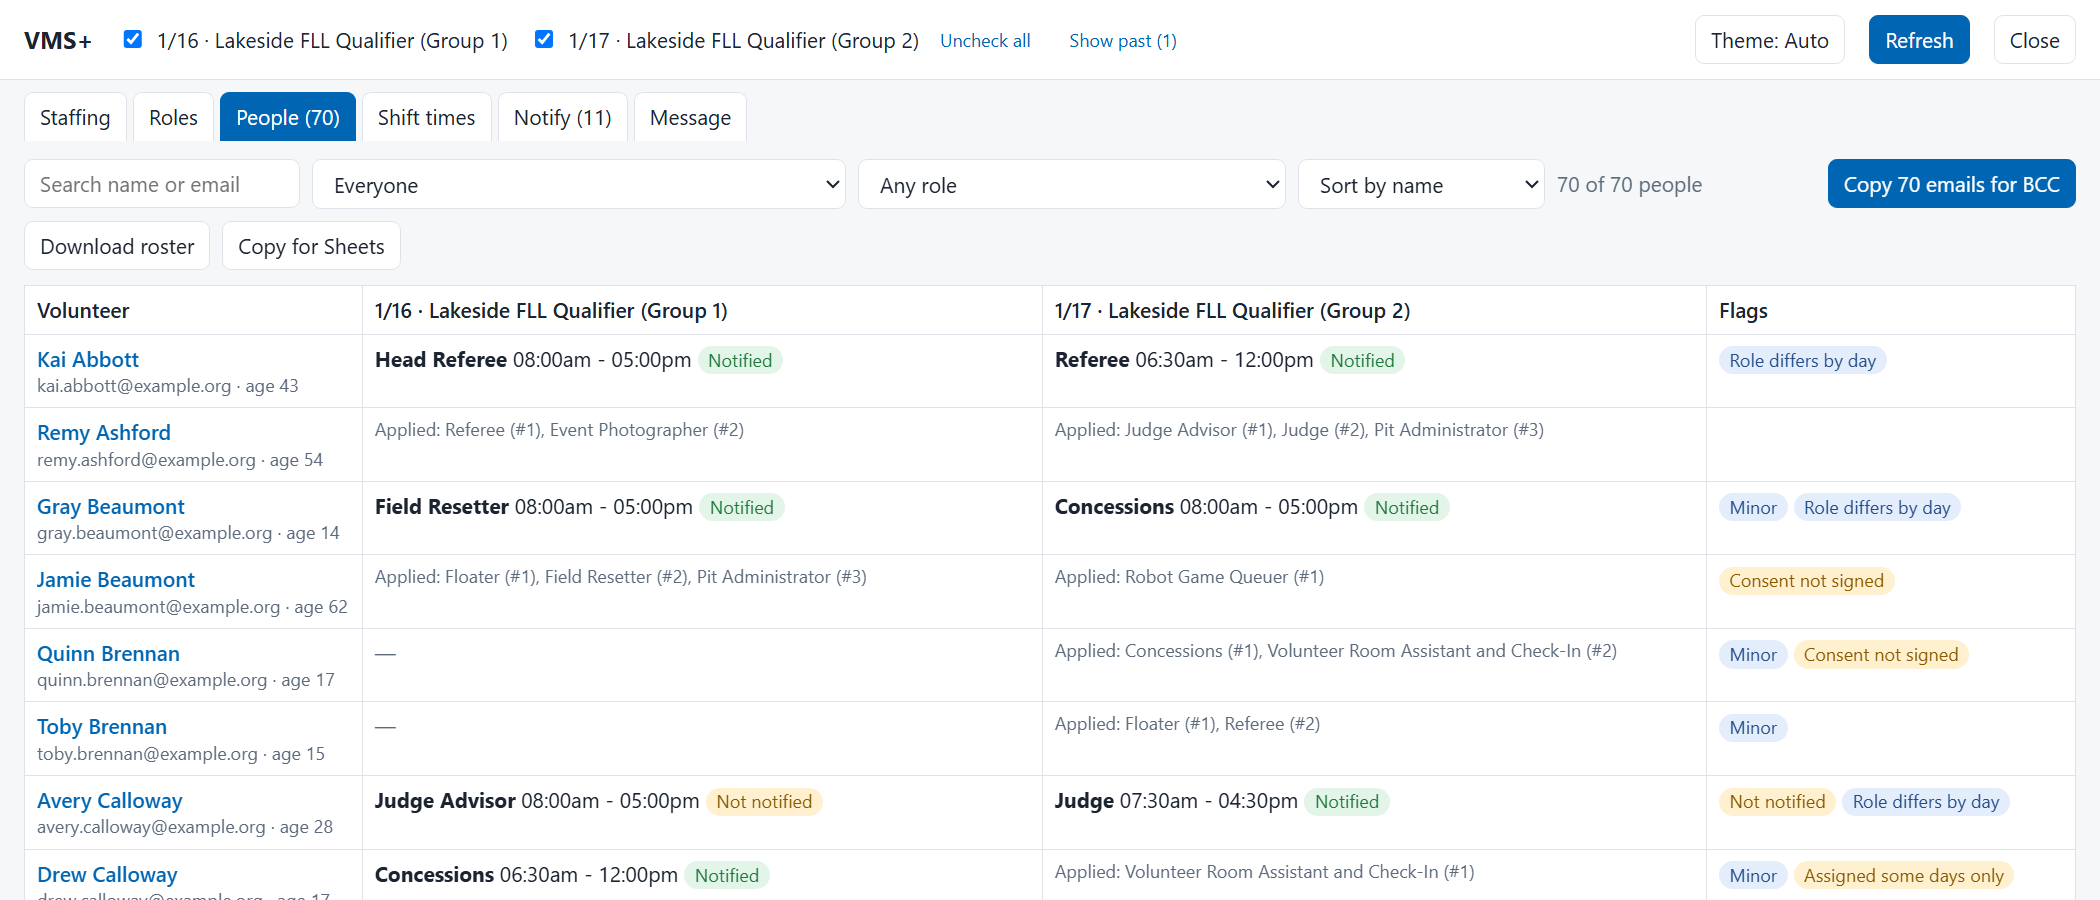
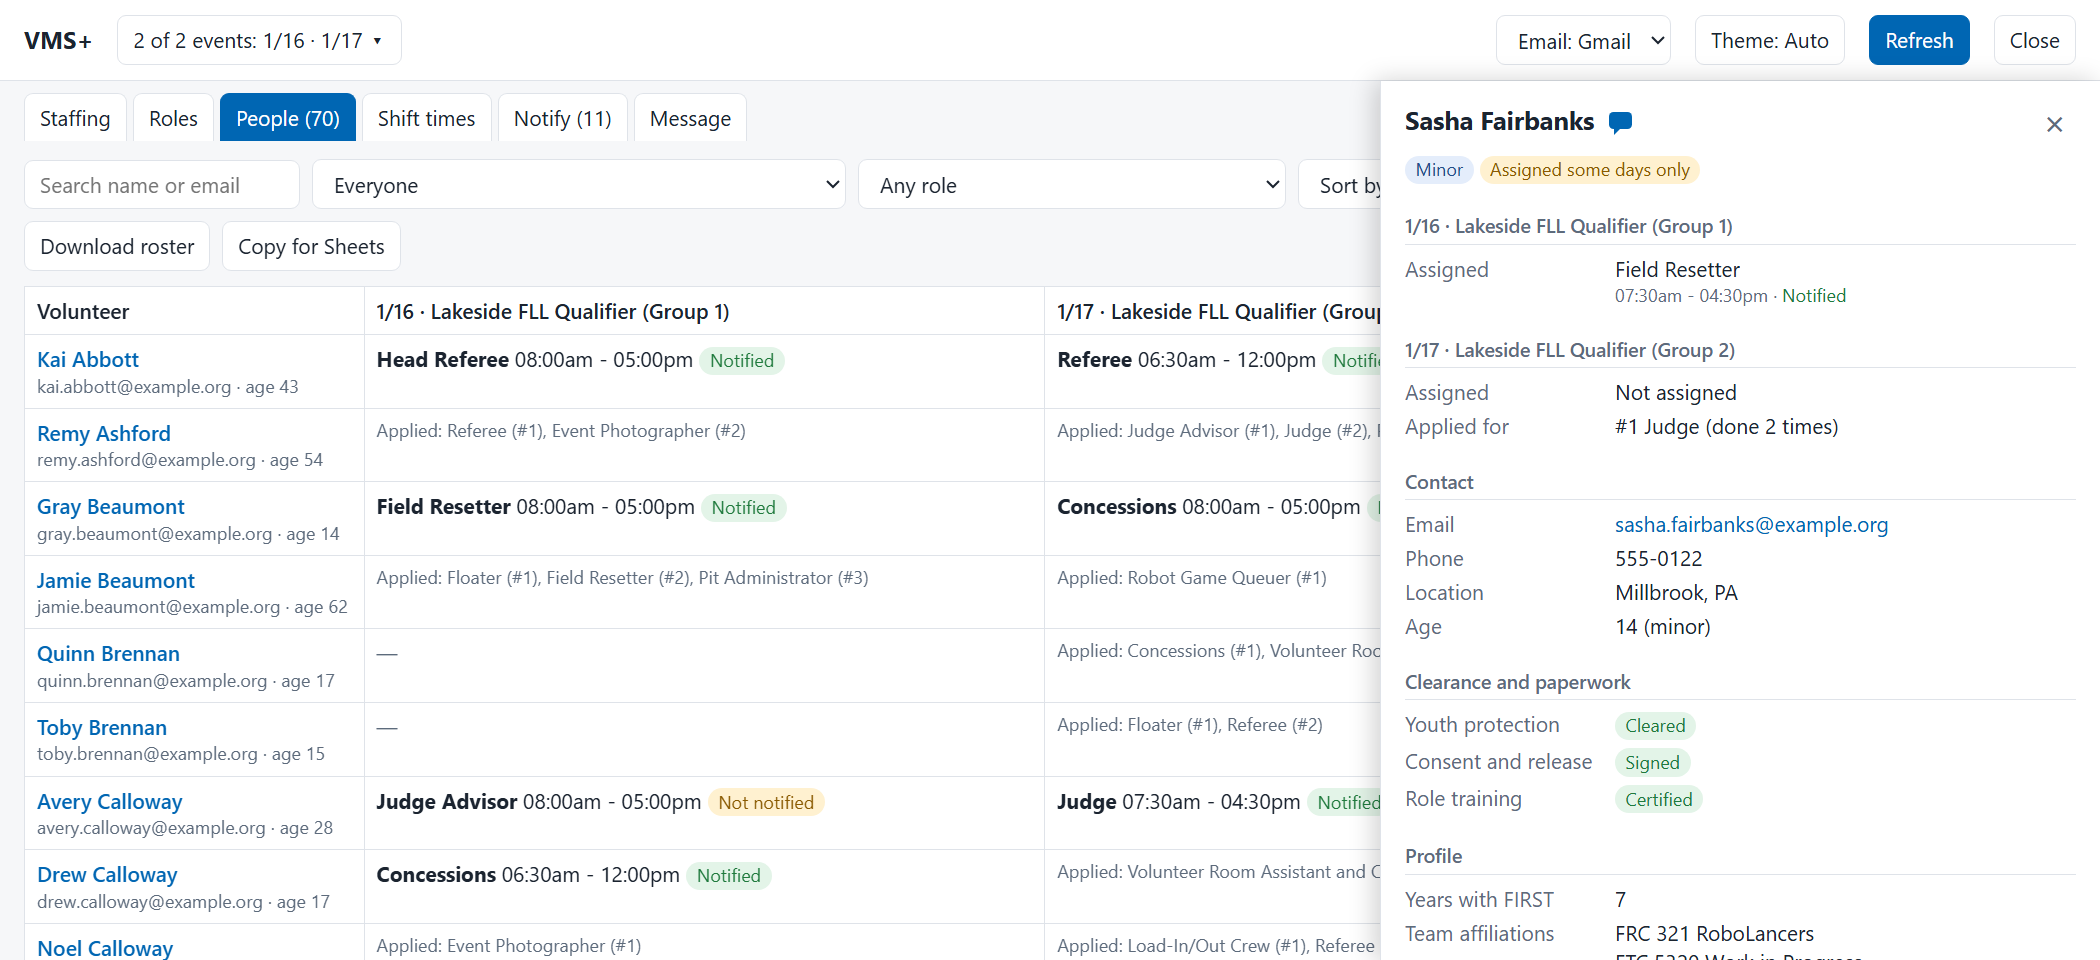
README: email choice, details pane, setup days; refreshed screenshots

diff --git a/README.md b/README.md
@@ -12,7 +12,7 @@ In VMS itself you staff one event and one role at a time. You open each role's p
 
 ### Staff several events at once
 
-Pick a role and see who is in it on each day, how many slots are open, and who applied. One click assigns someone to one day or to all of them.
+Pick a role and see who is in it on each day, how many slots are open, and who applied. One click assigns someone to one day or to all of them. Multi-day events get a column per day, and each event's setup day (the day before) can be shown too.
 
 ![Staffing tab: the Judge role across two events, with open slots, staged assignments and age warnings](docs/staffing.png)
 
@@ -20,6 +20,7 @@ Pick a role and see who is in it on each day, how many slots are open, and who a
 - **Youth Protection.** People who haven't cleared Youth Protection screening are shown but can't be assigned.
 - **Nothing changes until you confirm.** Assignments are *staged* first and shown as `+`. You review the list, then apply them all at once. Your staged changes survive a page reload.
 - **Applicant tools.** Search by name, show people who applied for other roles or are already assigned elsewhere, and hide applicants who aren't a fit (VMS doesn't tell them).
+- **Coordinator comments at a glance.** A speech bubble marks anyone with coordinator comments on their VMS profile; hover to read them.
 
 ### See where every event stands
 
@@ -36,18 +37,22 @@ The Roles tab shows each role's assigned / target count for every event. Short r
 
 The People tab lists everyone across the loaded events, with what they're doing each day and flags for anything that needs attention.
 
-![People tab: each volunteer's role and shift per event, with flags such as Minor, Not notified and Consent not signed](docs/people.png)
+![People tab: each volunteer's role and shift per event, with a volunteer's details pane open on the right](docs/people.png)
 
 - **Flags:** needs clearance, minor, not notified, no shift set, training incomplete, consent not signed, assigned some days only, role differs by day, and here last season.
 - **Filter and export.** Filter by status or role, copy everyone's emails for a BCC, download the roster, or copy it straight into Google Sheets.
-- **Reminder drafts.** One click opens a Gmail draft for each person who still owes clearance, training or the consent form. You review and send them yourself.
-- **Volunteer details.** Click a name to see their other applications, past seasons and coordinator comments.
+- **Reminder drafts.** One click opens an email draft for each person who still owes clearance, training or the consent form. You review and send them yourself.
+- **Volunteer details.** Click a name anywhere for a side pane: what they're doing at your events first, then clearance and paperwork, their profile, this season's assignments, past seasons grouped by role, and coordinator comments (FIRST support emails are kept separate and folded away). Step through a list with ‹ › or the arrow keys.
 
 ### Bulk actions
 
 - **Shift times:** set one shift time per event, or per role, and apply it to every assigned shift. This replaces VMS's 6am–10pm default.
 - **Notify:** send the standard VMS assignment email to everyone you've assigned, across all events, in one go.
 - **Message:** email everyone in chosen roles and events by status: notified, tentative, unassigned applicants, or everyone.
+
+### Your email, your choice
+
+Pick where email opens from the **Email** menu at the top: Gmail (optionally a specific Google account), Outlook for work or school, Outlook.com, or your computer's own email app. Reminder drafts and volunteer email links both use it. VMS+ asks the first time you need it.
 
 ## Typical weekend
 
@@ -62,7 +67,7 @@ The People tab lists everyone across the loaded events, with what they're doing 
 
 - **Read-only until you confirm.** Loading only reads from VMS. Every change (assigning, targets, emails) is shown as a preview first and happens only when you confirm it.
 - **It uses your own VMS login.** VMS+ can only see and do what your VMS account already can.
-- **No servers.** Everything runs in your browser. Nothing is sent anywhere except VMS itself and the Gmail drafts you choose to open. Volunteer details stay in memory. The browser saves only your settings and staged changes, stored as ID numbers without names or emails.
+- **No servers.** Everything runs in your browser. Nothing is sent anywhere except VMS itself and the email drafts you choose to open (in Gmail, Outlook or your email app). Volunteer details stay in memory. The browser saves only your settings and staged changes, stored as ID numbers without volunteers' names or emails. If you give a Gmail account to use, that address of yours is saved with your settings.
 - **Gentle on VMS.** VMS+ limits how fast it sends requests, retries when VMS is slow, and pauses if VMS asks it to back off.
 
 ## Install
@@ -78,5 +83,5 @@ To update, replace the folder's files with the new version and click the reload 
 
 - `manifest.json`: the extension manifest (Manifest V3)
 - `content.js`: the dashboard, which runs on VMS pages
-- `background.js`: opens Gmail drafts and VMS pages in background tabs
+- `background.js`: opens email drafts (Gmail or Outlook on the web) and VMS pages in background tabs
 - `docs/`: README screenshots
